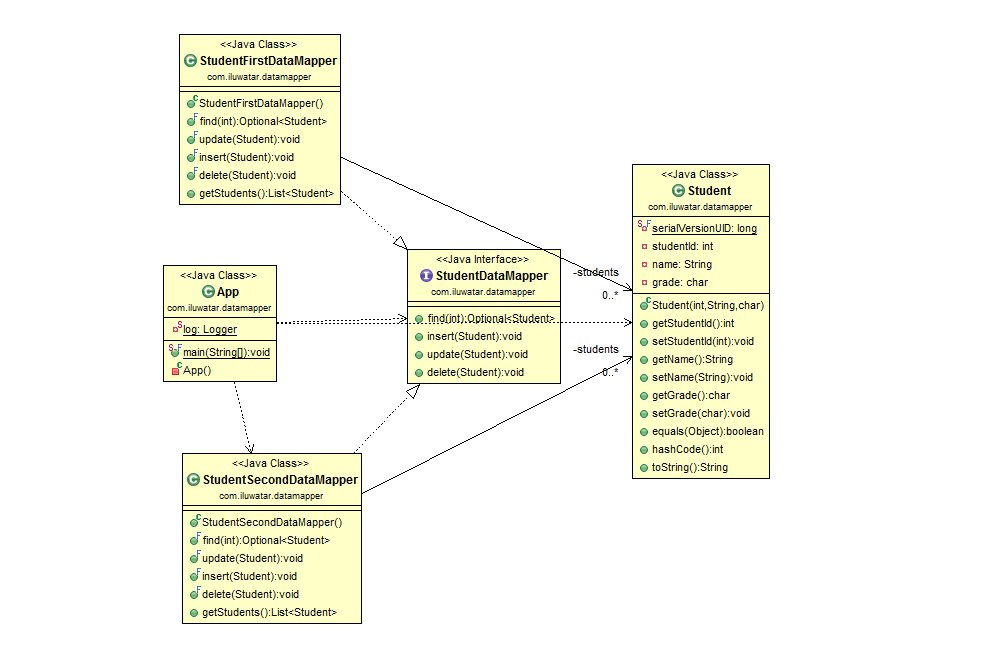
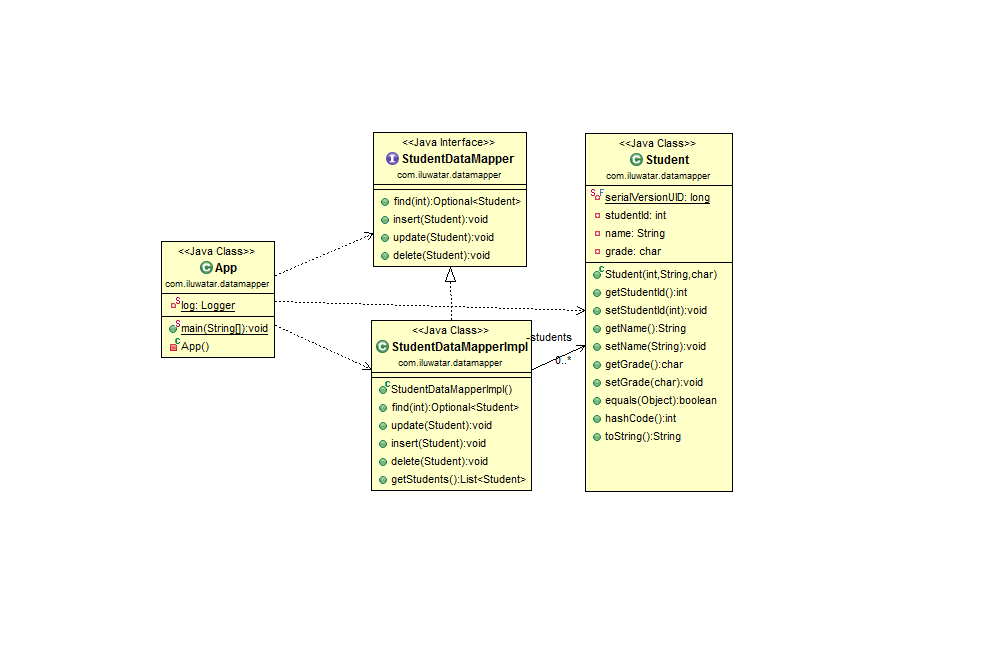
First review changes++
First review changes++

Changed region(s): [[0.1833, 0.0312, 0.7943, 0.9375], [0.1527, 0.3438, 0.3055, 0.5938]]

diff --git a/data-mapper/src/main/java/com/iluwatar/datamapper/App.java b/data-mapper/src/main/java/com/iluwatar/datamapper/App.java
@@ -1,5 +1,5 @@
 /**
- * The MIT License Copyright (c) 2014 Ilkka Seppälä
+ * The MIT License Copyright (c) 2016 Amit Dixit
  *
  * Permission is hereby granted, free of charge, to any person obtaining a copy of this software and
  * associated documentation files (the "Software"), to deal in the Software without restriction,
@@ -37,9 +37,6 @@ public final class App {
 
   private static Logger log = Logger.getLogger(App.class);
 
-  private static final String DB_TYPE_FIRST = "first";
-  private static final String DB_TYPE_SECOND = "second";
-
   /**
    * Program entry point.
    * 
@@ -47,49 +44,21 @@ public final class App {
    */
   public static void main(final String... args) {
 
-    if (log.isInfoEnabled() & args.length > 0) {
-      log.debug("App.main(), type: " + args[0]);
-    }
-
-    StudentDataMapper mapper = null;
-
-    /* Check the desired db type from runtime arguments */
-    if (args.length == 0) {
-
-      /* Create default data mapper for mysql */
-      mapper = new StudentFirstDataMapper();
-
-    } else if (args.length > 0 && DB_TYPE_FIRST.equalsIgnoreCase(args[0])) {
-
-      /* Create new data mapper for type 'first' */
-      mapper = new StudentFirstDataMapper();
-
-    } else if (args.length > 0 && DB_TYPE_SECOND.equalsIgnoreCase(args[0])) {
-
-      /* Create new data mapper for type 'second' */
-      mapper = new StudentSecondDataMapper();
-    } else {
-
-      /* Don't couple any Data Mapper to java.sql.SQLException */
-      throw new DataMapperException("Following data mapping type(" + args[0] + ") is not supported");
-    }
+    /* Create new data mapper for type 'first' */
+    final StudentDataMapper mapper = new StudentDataMapperImpl();
 
     /* Create new student */
     Student student = new Student(1, "Adam", 'A');
 
-    /* Add student in respectibe db */
+    /* Add student in respectibe store */
     mapper.insert(student);
 
-    if (log.isDebugEnabled()) {
-      log.debug("App.main(), student : " + student + ", is inserted");
-    }
+    log.debug("App.main(), student : " + student + ", is inserted");
 
     /* Find this student */
     final Optional<Student> studentToBeFound = mapper.find(student.getStudentId());
 
-    if (log.isDebugEnabled()) {
-      log.debug("App.main(), student : " + studentToBeFound + ", is searched");
-    }
+    log.debug("App.main(), student : " + studentToBeFound + ", is searched");
 
     /* Update existing student object */
     student = new Student(student.getStudentId(), "AdamUpdated", 'A');
@@ -97,15 +66,10 @@ public final class App {
     /* Update student in respectibe db */
     mapper.update(student);
 
-    if (log.isDebugEnabled()) {
-      log.debug("App.main(), student : " + student + ", is updated");
-    }
+    log.debug("App.main(), student : " + student + ", is updated");
+    log.debug("App.main(), student : " + student + ", is going to be deleted");
 
     /* Delete student in db */
-
-    if (log.isDebugEnabled()) {
-      log.debug("App.main(), student : " + student + ", is deleted");
-    }
     mapper.delete(student);
   }
 

diff --git a/data-mapper/src/test/java/com/iluwatar/datamapper/StudentTest.java b/data-mapper/src/test/java/com/iluwatar/datamapper/StudentTest.java
@@ -1,0 +1,50 @@
+/**
+ * The MIT License Copyright (c) 2016 Amit Dixit
+ *
+ * Permission is hereby granted, free of charge, to any person obtaining a copy of this software and
+ * associated documentation files (the "Software"), to deal in the Software without restriction,
+ * including without limitation the rights to use, copy, modify, merge, publish, distribute,
+ * sublicense, and/or sell copies of the Software, and to permit persons to whom the Software is
+ * furnished to do so, subject to the following conditions:
+ *
+ * The above copyright notice and this permission notice shall be included in all copies or
+ * substantial portions of the Software.
+ *
+ * THE SOFTWARE IS PROVIDED "AS IS", WITHOUT WARRANTY OF ANY KIND, EXPRESS OR IMPLIED, INCLUDING BUT
+ * NOT LIMITED TO THE WARRANTIES OF MERCHANTABILITY, FITNESS FOR A PARTICULAR PURPOSE AND
+ * NONINFRINGEMENT. IN NO EVENT SHALL THE AUTHORS OR COPYRIGHT HOLDERS BE LIABLE FOR ANY CLAIM,
+ * DAMAGES OR OTHER LIABILITY, WHETHER IN AN ACTION OF CONTRACT, TORT OR OTHERWISE, ARISING FROM,
+ * OUT OF OR IN CONNECTION WITH THE SOFTWARE OR THE USE OR OTHER DEALINGS IN THE SOFTWARE.
+ */
+package com.iluwatar.datamapper;
+
+import org.junit.Test;
+import static org.junit.Assert.assertTrue;
+import static org.junit.Assert.assertFalse;
+
+public final class StudentTest {
+
+  @Test
+  /**
+   * This API tests the equality behaviour of Student object
+   * Object Equality should work as per logic defined in equals method
+   * @throws Exception
+   */
+  public void testEquality() throws Exception {
+
+    /* Create some students */
+    final Student firstStudent = new Student(1, "Adam", 'A');
+    final Student secondStudent = new Student(2, "Donald", 'B');
+    final Student secondSameStudent = new Student(2, "Donald", 'B');
+    final Student firstSameStudent = firstStudent;
+
+    /* Check equals functionality: should return 'true' */
+    assertTrue(firstStudent.equals(firstSameStudent));
+
+    /* Check equals functionality: should return 'false' */
+    assertFalse(firstStudent.equals(secondStudent));
+
+    /* Check equals functionality: should return 'true' */
+    assertTrue(secondStudent.equals(secondSameStudent));
+  }
+}

diff --git a/data-mapper/src/test/java/com/iluwatar/datamapper/DataMapperTest.java b/data-mapper/src/test/java/com/iluwatar/datamapper/DataMapperTest.java
@@ -24,8 +24,7 @@ import org.junit.Test;
 
 import com.iluwatar.datamapper.Student;
 import com.iluwatar.datamapper.StudentDataMapper;
-import com.iluwatar.datamapper.StudentFirstDataMapper;
-import com.iluwatar.datamapper.StudentSecondDataMapper;
+import com.iluwatar.datamapper.StudentDataMapperImpl;
 
 /**
  * The Data Mapper (DM) is a layer of software that separates the in-memory objects from the
@@ -45,41 +44,7 @@ public class DataMapperTest {
   public void testFirstDataMapper() {
 
     /* Create new data mapper of first type */
-    final StudentDataMapper mapper = new StudentFirstDataMapper();
-
-    /* Create new student */
-    Student student = new Student(1, "Adam", 'A');
-
-    /* Add student in respectibe db */
-    mapper.insert(student);
-
-    /* Check if student is added in db */
-    assertEquals(student.getStudentId(), mapper.find(student.getStudentId()).get().getStudentId());
-
-    /* Update existing student object */
-    student = new Student(student.getStudentId(), "AdamUpdated", 'A');
-
-    /* Update student in respectibe db */
-    mapper.update(student);
-
-    /* Check if student is updated in db */
-    assertEquals(mapper.find(student.getStudentId()).get().getName(), "AdamUpdated");
-
-    /* Delete student in db */
-    mapper.delete(student);
-
-    /* Result should be false */
-    assertEquals(false, mapper.find(student.getStudentId()).isPresent());
-  }
-
-  /**
-   * This test verify that second data mapper is able to perform all CRUD operations on Student
-   */
-  @Test
-  public void testSecondDataMapper() {
-
-    /* Create new data mapper of second type */
-    final StudentDataMapper mapper = new StudentSecondDataMapper();
+    final StudentDataMapper mapper = new StudentDataMapperImpl();
 
     /* Create new student */
     Student student = new Student(1, "Adam", 'A');

diff --git a/data-mapper/src/main/java/com/iluwatar/datamapper/StudentDataMapperImpl.java b/data-mapper/src/main/java/com/iluwatar/datamapper/StudentDataMapperImpl.java
@@ -18,14 +18,14 @@
  */
 package com.iluwatar.datamapper;
 
-import java.util.Vector;
+import java.util.ArrayList;
 import java.util.List;
 import java.util.Optional;
 
-public final class StudentSecondDataMapper implements StudentDataMapper {
+public final class StudentDataMapperImpl implements StudentDataMapper {
 
   /* Note: Normally this would be in the form of an actual database */
-  private List<Student> students = new Vector<>();
+  private List<Student> students = new ArrayList<>();
 
   @Override
   public Optional<Student> find(int studentId) {
@@ -47,6 +47,7 @@ public final class StudentSecondDataMapper implements StudentDataMapper {
   @Override
   public void update(Student studentToBeUpdated) throws DataMapperException {
 
+
     /* Check with existing students */
     if (this.getStudents().contains(studentToBeUpdated)) {
 
@@ -58,7 +59,7 @@ public final class StudentSecondDataMapper implements StudentDataMapper {
 
     } else {
 
-      /* Throw user error */
+      /* Throw user error after wrapping in a runtime exception */
       throw new DataMapperException("Student [" + studentToBeUpdated.getName() + "] is not found");
     }
   }
@@ -74,7 +75,7 @@ public final class StudentSecondDataMapper implements StudentDataMapper {
 
     } else {
 
-      /* Throw user error */
+      /* Throw user error after wrapping in a runtime exception */
       throw new DataMapperException("Student already [" + studentToBeInserted.getName() + "] exists");
     }
   }
@@ -90,7 +91,7 @@ public final class StudentSecondDataMapper implements StudentDataMapper {
 
     } else {
 
-      /* Throw user error */
+      /* Throw user error after wrapping in a runtime exception */
       throw new DataMapperException("Student [" + studentToBeDeleted.getName() + "] is not found");
     }
   }

diff --git a/data-mapper/src/test/java/com/iluwatar/datamapper/AppTest.java b/data-mapper/src/test/java/com/iluwatar/datamapper/AppTest.java
@@ -1,6 +1,5 @@
 /**
  * The MIT License Copyright (c) 2016 Amit Dixit
- * 
  *
  * Permission is hereby granted, free of charge, to any person obtaining a copy of this software and
  * associated documentation files (the "Software"), to deal in the Software without restriction,

diff --git a/data-mapper/src/main/java/com/iluwatar/datamapper/DataMapperException.java b/data-mapper/src/main/java/com/iluwatar/datamapper/DataMapperException.java
@@ -19,6 +19,8 @@
 package com.iluwatar.datamapper;
 
 /**
+ * Using Runtime Exception for avoiding dependancy on implementation exceptions. This helps in
+ * decoupling.
  * 
  * @author amit.dixit
  *
